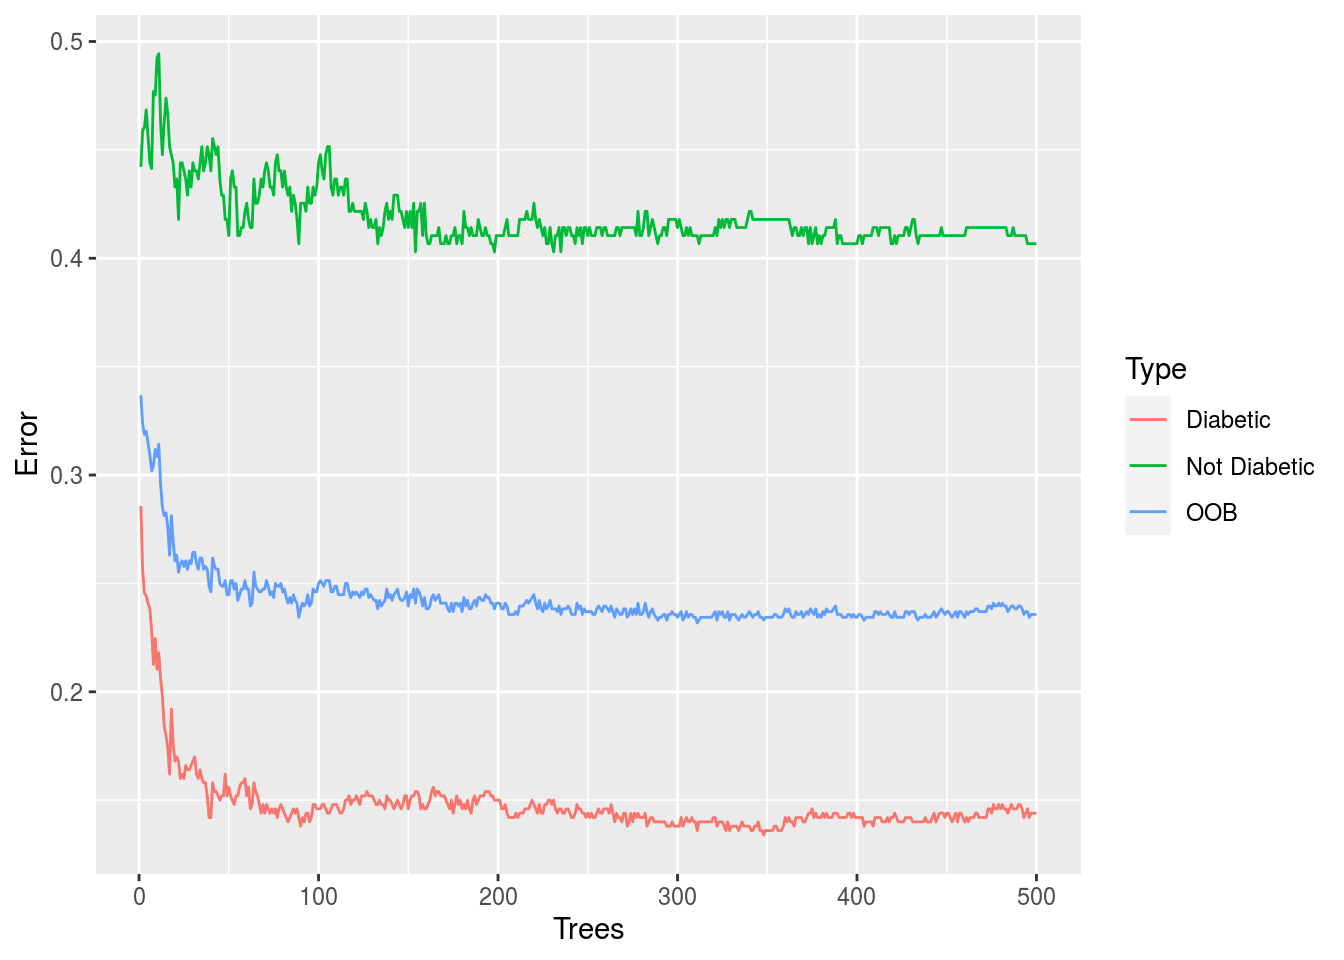
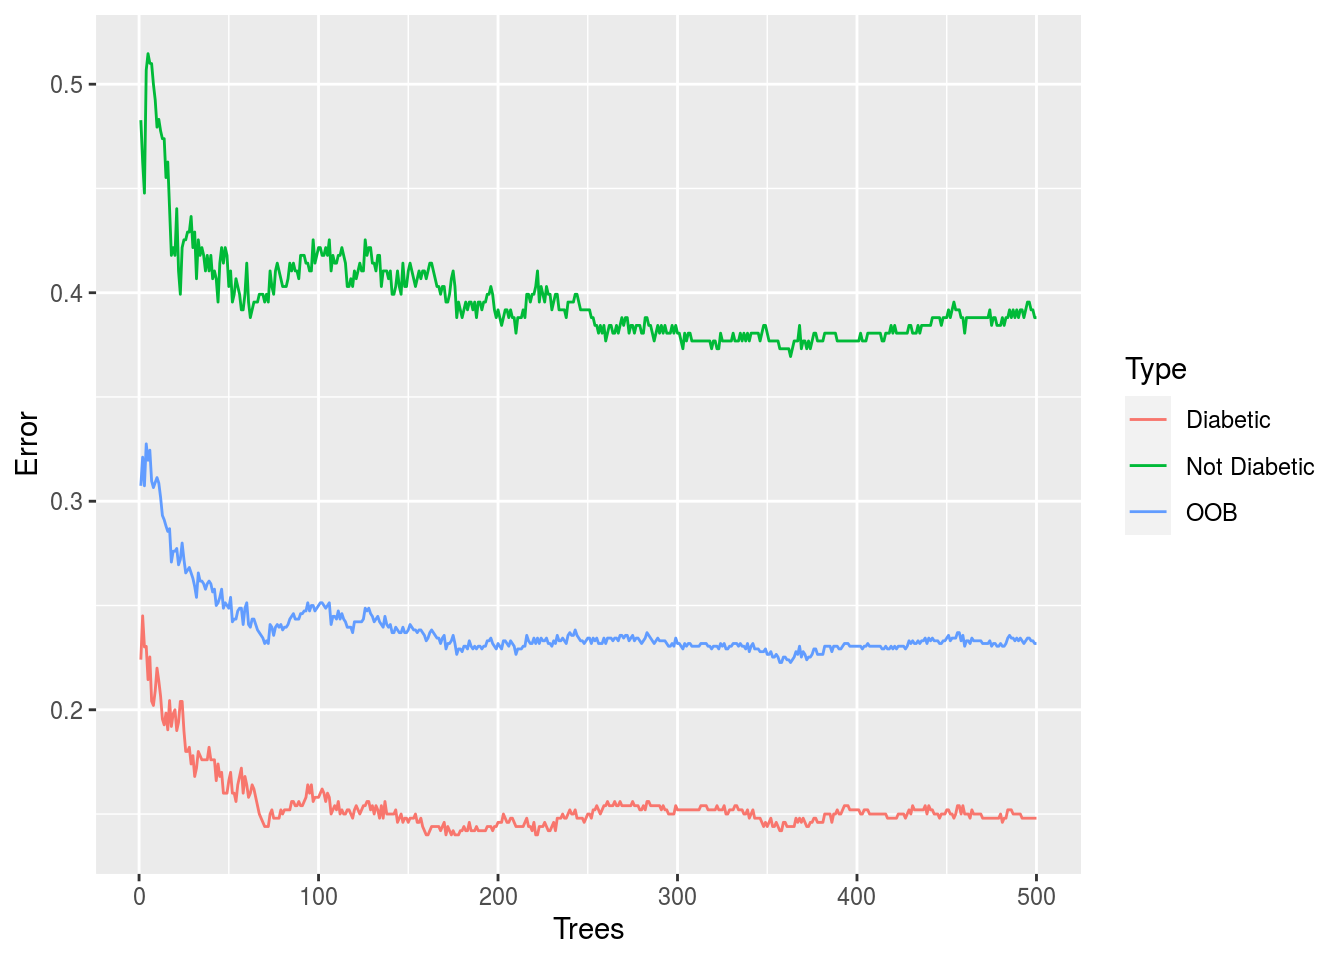
5

diff --git a/public/blog/text/index.html b/public/blog/text/index.html
@@ -199,11 +199,11 @@ print(model)</code></pre>
 ##                      Number of trees: 500
 ## No. of variables tried at each split: 2
 ## 
-##         OOB estimate of  error rate: 23.57%
+##         OOB estimate of  error rate: 23.18%
 ## Confusion matrix:
 ##              Diabetic Not Diabetic class.error
-## Diabetic          428           72   0.1440000
-## Not Diabetic      109          159   0.4067164</code></pre>
+## Diabetic          426           74   0.1480000
+## Not Diabetic      104          164   0.3880597</code></pre>
 <p>By default, number of trees is 500 and number of variables tried at each split is 2 in this case. Error rate is 23.05%.</p>
 </div>
 <div id="boostrap-sampling" class="section level3">
@@ -228,10 +228,10 @@ print(model1)</code></pre>
 ##                      Number of trees: 1000
 ## No. of variables tried at each split: 2
 ## 
-##         OOB estimate of  error rate: 23.05%
+##         OOB estimate of  error rate: 22.92%
 ## Confusion matrix:
 ##              Diabetic Not Diabetic class.error
-## Diabetic          428           72    0.144000
+## Diabetic          429           71    0.142000
 ## Not Diabetic      105          163    0.391791</code></pre>
 <p>Creating error rate dataframe for all the trees.</p>
 <pre class="r"><code>oob.err.data1 &lt;- data.frame(
@@ -249,8 +249,8 @@ for(i in 1:8){
 }</code></pre>
 <p>Printing the result.</p>
 <pre class="r"><code>oob.values</code></pre>
-<pre><code>##  [1] 0.2395833 0.2395833 0.2421875 0.2421875 0.2330729 0.2343750 0.2356771
-##  [8] 0.2304688 0.0000000 0.0000000</code></pre>
+<pre><code>##  [1] 0.2408854 0.2265625 0.2265625 0.2330729 0.2330729 0.2447917 0.2330729
+##  [8] 0.2421875 0.0000000 0.0000000</code></pre>
 <p>We can see that for varying the value of mtry from 1 to 8 the oob.values varied respectively . For better prediction of the model , we have to select that mtry value for which the model has the least error.rate.</p>
 <p>Since the error rate is low at mtry =3.
 Building final tree with most optimal customizations i.e., ntree=500, mtry=3 .</p>
@@ -263,11 +263,11 @@ print(model2)</code></pre>
 ##                      Number of trees: 500
 ## No. of variables tried at each split: 3
 ## 
-##         OOB estimate of  error rate: 23.57%
+##         OOB estimate of  error rate: 24.09%
 ## Confusion matrix:
 ##              Diabetic Not Diabetic class.error
-## Diabetic          420           80   0.1600000
-## Not Diabetic      101          167   0.3768657</code></pre>
+## Diabetic          422           78   0.1560000
+## Not Diabetic      107          161   0.3992537</code></pre>
 </div>
 <div id="variable-importance" class="section level3">
 <h3>Variable Importance</h3>
@@ -275,18 +275,18 @@ print(model2)</code></pre>
 <p>Checking the important predictors.</p>
 <pre class="r"><code>importance(model2)</code></pre>
 <pre><code>##                          MeanDecreaseGini
-## Pregnancies                      27.39944
-## Glucose                          96.82841
-## BloodPressure                    30.26402
-## SkinThickness                    21.00785
-## Insulin                          22.56641
-## BMI                              59.33729
-## DiabetesPedigreeFunction         43.75553
-## Age                              47.40167</code></pre>
+## Pregnancies                      27.15986
+## Glucose                          98.08656
+## BloodPressure                    30.03082
+## SkinThickness                    21.26790
+## Insulin                          23.34112
+## BMI                              59.43818
+## DiabetesPedigreeFunction         42.83979
+## Age                              47.02026</code></pre>
 <pre class="r"><code>varImpPlot(model2)</code></pre>
 <p><img src="../../blog/text_files/figure-html/unnamed-chunk-18-1.png" width="672" />
 By the MeanDecreaseGini values we can say which value is of greater importance than the others. The predictors with greater value of MeanDecreaseGini are of greater importance. We can also observe this result by plotting MeanDecreaseGini against the predictors.</p>
-<p>Hope I was able to share some helpful concepts with you. See you in the next article. My website link [Pratiksha] https://prat.netlify.app/.</p>
+<p>Hope I was able to share some helpful concepts with you. See you in the next article. My website link [Pratiksha]<a href="https://prat.netlify.app/" class="uri">https://prat.netlify.app/</a> .</p>
 </div>
 
           </div>

diff --git a/content/blog/text.html b/content/blog/text.html
@@ -80,11 +80,11 @@ print(model)</code></pre>
 ##                      Number of trees: 500
 ## No. of variables tried at each split: 2
 ## 
-##         OOB estimate of  error rate: 23.57%
+##         OOB estimate of  error rate: 23.18%
 ## Confusion matrix:
 ##              Diabetic Not Diabetic class.error
-## Diabetic          428           72   0.1440000
-## Not Diabetic      109          159   0.4067164</code></pre>
+## Diabetic          426           74   0.1480000
+## Not Diabetic      104          164   0.3880597</code></pre>
 <p>By default, number of trees is 500 and number of variables tried at each split is 2 in this case. Error rate is 23.05%.</p>
 </div>
 <div id="boostrap-sampling" class="section level3">
@@ -109,10 +109,10 @@ print(model1)</code></pre>
 ##                      Number of trees: 1000
 ## No. of variables tried at each split: 2
 ## 
-##         OOB estimate of  error rate: 23.05%
+##         OOB estimate of  error rate: 22.92%
 ## Confusion matrix:
 ##              Diabetic Not Diabetic class.error
-## Diabetic          428           72    0.144000
+## Diabetic          429           71    0.142000
 ## Not Diabetic      105          163    0.391791</code></pre>
 <p>Creating error rate dataframe for all the trees.</p>
 <pre class="r"><code>oob.err.data1 &lt;- data.frame(
@@ -130,8 +130,8 @@ for(i in 1:8){
 }</code></pre>
 <p>Printing the result.</p>
 <pre class="r"><code>oob.values</code></pre>
-<pre><code>##  [1] 0.2395833 0.2395833 0.2421875 0.2421875 0.2330729 0.2343750 0.2356771
-##  [8] 0.2304688 0.0000000 0.0000000</code></pre>
+<pre><code>##  [1] 0.2408854 0.2265625 0.2265625 0.2330729 0.2330729 0.2447917 0.2330729
+##  [8] 0.2421875 0.0000000 0.0000000</code></pre>
 <p>We can see that for varying the value of mtry from 1 to 8 the oob.values varied respectively . For better prediction of the model , we have to select that mtry value for which the model has the least error.rate.</p>
 <p>Since the error rate is low at mtry =3.
 Building final tree with most optimal customizations i.e., ntree=500, mtry=3 .</p>
@@ -144,11 +144,11 @@ print(model2)</code></pre>
 ##                      Number of trees: 500
 ## No. of variables tried at each split: 3
 ## 
-##         OOB estimate of  error rate: 23.57%
+##         OOB estimate of  error rate: 24.09%
 ## Confusion matrix:
 ##              Diabetic Not Diabetic class.error
-## Diabetic          420           80   0.1600000
-## Not Diabetic      101          167   0.3768657</code></pre>
+## Diabetic          422           78   0.1560000
+## Not Diabetic      107          161   0.3992537</code></pre>
 </div>
 <div id="variable-importance" class="section level3">
 <h3>Variable Importance</h3>
@@ -156,16 +156,16 @@ print(model2)</code></pre>
 <p>Checking the important predictors.</p>
 <pre class="r"><code>importance(model2)</code></pre>
 <pre><code>##                          MeanDecreaseGini
-## Pregnancies                      27.39944
-## Glucose                          96.82841
-## BloodPressure                    30.26402
-## SkinThickness                    21.00785
-## Insulin                          22.56641
-## BMI                              59.33729
-## DiabetesPedigreeFunction         43.75553
-## Age                              47.40167</code></pre>
+## Pregnancies                      27.15986
+## Glucose                          98.08656
+## BloodPressure                    30.03082
+## SkinThickness                    21.26790
+## Insulin                          23.34112
+## BMI                              59.43818
+## DiabetesPedigreeFunction         42.83979
+## Age                              47.02026</code></pre>
 <pre class="r"><code>varImpPlot(model2)</code></pre>
 <p><img src="/blog/text_files/figure-html/unnamed-chunk-18-1.png" width="672" />
 By the MeanDecreaseGini values we can say which value is of greater importance than the others. The predictors with greater value of MeanDecreaseGini are of greater importance. We can also observe this result by plotting MeanDecreaseGini against the predictors.</p>
-<p>Hope I was able to share some helpful concepts with you. See you in the next article. My website link [Pratiksha] https://prat.netlify.app/.</p>
+<p>Hope I was able to share some helpful concepts with you. See you in the next article. My website link [Pratiksha]<a href="https://prat.netlify.app/" class="uri">https://prat.netlify.app/</a> .</p>
 </div>

diff --git a/public/index.html b/public/index.html
@@ -1,7 +1,7 @@
 <!DOCTYPE html>
 <html lang="en-us"><head>
   <meta charset="utf-8">
-  <title>Prat</title>
+  <title>Kross</title>
 
   <!-- mobile responsive meta -->
   <meta name="viewport" content="width=device-width, initial-scale=1, maximum-scale=1">
